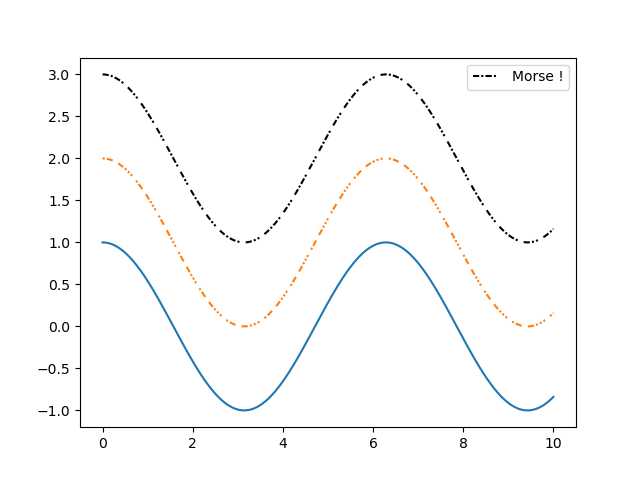
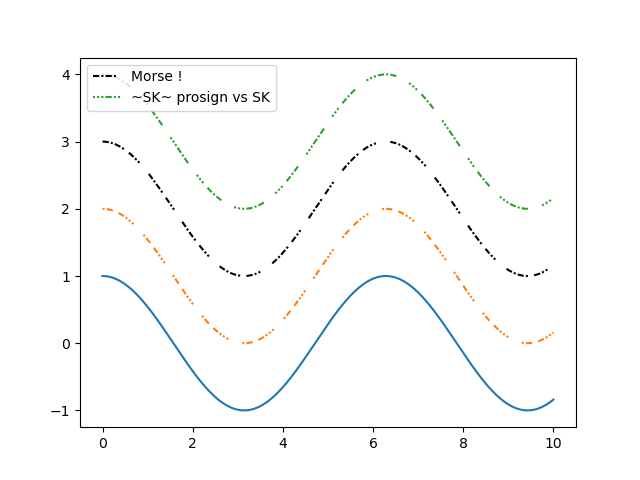
Added support for prosigns in Python code

diff --git a/python/morseplot/text_to_dashes.py b/python/morseplot/text_to_dashes.py
@@ -53,30 +53,61 @@ def text_to_symbols(text, alphabet=alphabet_default):
     # Convert to lower case (no difference between upper an lower in Morse)
     text = text.lower()
     
+    
+    # Some variables init
     output = ''
     
     n_chars = len(text)
     
+    add_interletter = True
+    
+    inside_prosign = False
+    
+    
+    # Check if there is an odd number of `~`
+    # which means we have some messed up prosigns)
+    if text.count('~')%2 == 1:
+        raise ValueError("Cannot process prosigns: a tilda ('~') is missing " +
+                         "somewhere to close a prosign.")
+    
+    
     # Replace each letter by the corresponding symbols
     for i in range(n_chars):
         
-        # Add the Morse symbols corresponding to this char
-        output += alphabet[text[i]]
         
+        # Process prosign formatting
+        if text[i] == '~':
+            # Toggle the state when entering/exiting
+            inside_prosign = not(inside_prosign)
         
-        # Check if we need to add an interletter symbol
+        # Or Add the Morse symbols corresponding to this char
+        else:
+            output += alphabet[text[i]]
+            
         
-        add_interletter = True
+        # Whether to add an interletter pause or not
         
-        # Not needed if the current char is a space
-        if text[i]==' ':
-            add_interletter = False
-        
-        # If the next char is a space, we also don't need it
-        if (i+1<n_chars) and text[i+1] == ' ':
+        # Never add one inside of a prosign
+        if inside_prosign:
             add_interletter = False
             
-        # And finally add it if needed
+        # Outside prosign: might add one, depending on the char
+        # Note: when just exiting a prosign, we don't add a char (it's a '~'), 
+        # but we still add a space, which is desired.
+        else:
+            # Default
+            add_interletter = True
+            
+            # Not needed if the current char is a space
+            if text[i]==' ':
+                add_interletter = False
+            
+            # If the next char is a space, we also don't need it
+            if (i+1<n_chars) and text[i+1] == ' ':
+                add_interletter = False
+            
+        
+        # Finally, add the interletter pause if needed
         if add_interletter:
             output += alphabet['interletter']
 

diff --git a/python/morse_plot_example.py b/python/morse_plot_example.py
@@ -24,14 +24,16 @@ y = np.cos(x)
 plt.plot(x, y)
 
 # Plot with some morse code
-plt.morse_plot(x, y+1, morse_text='AB')
+plt.morse_plot(x, y+1, morse_text='AB ')
 
 
 # We can also do it from the axis !
 # Get the axis
 ax = plt.gca()
 # Morse plot. We also added some extra args
-ax.morse_plot(x, y+2, morse_text='CD', label='Morse !', color='k') 
+ax.morse_plot(x, y+2, morse_text='CD ', label='Morse !', color='k') 
+# And finally a line with a prosign
+ax.morse_plot(x, y+3, morse_text='~SK~ SK ', label='~SK~ prosign vs SK')
 
 
 plt.legend()

diff --git a/README.md b/README.md
@@ -6,6 +6,17 @@ The goal of this project is to make it possible to plot data, or draw lines, wit
 
 ## Currently supported
 
+### Morse features
+
+The following features of Morse code are currently supported (across all Python based libraries/scripts):
+- Alphabet (not accentuated letters) and numbers
+- [Prosigns](https://en.wikipedia.org/wiki/Prosigns_for_Morse_code), by encasing the characters in `~`. For example, for the `OUT` prosign, made up of an `S` and a `K` without any pause between, use `~SK~`.
+
+Not currently supported:
+- Accentuated letters
+- Punctuation
+
+### Programming languages and software
 For now, the following programming languages and software are currently supported:
 - Python + Matplotlib, via the `morseplot` package (in the `./python` folder). For now, only plotting lines is supported. See the [Morseplot Python package](#morseplot-python-package) section for more details.
 - Inkscape (requires Python 3). See the [Inkscape strokes](#inkscape-trokes) section.
@@ -58,6 +69,8 @@ plt.morse_plot(x, y+1, morse_text='AB')
 ax = plt.gca()
 # Morse plot. We also added some extra args
 ax.morse_plot(x, y+2, morse_text='CD', label='Morse !', color='k') 
+# And finally a line with a prosign
+ax.morse_plot(x, y+3, morse_text='~SK~ SK ', label='~SK~ prosign vs SK')
 
 plt.legend()
 ```
